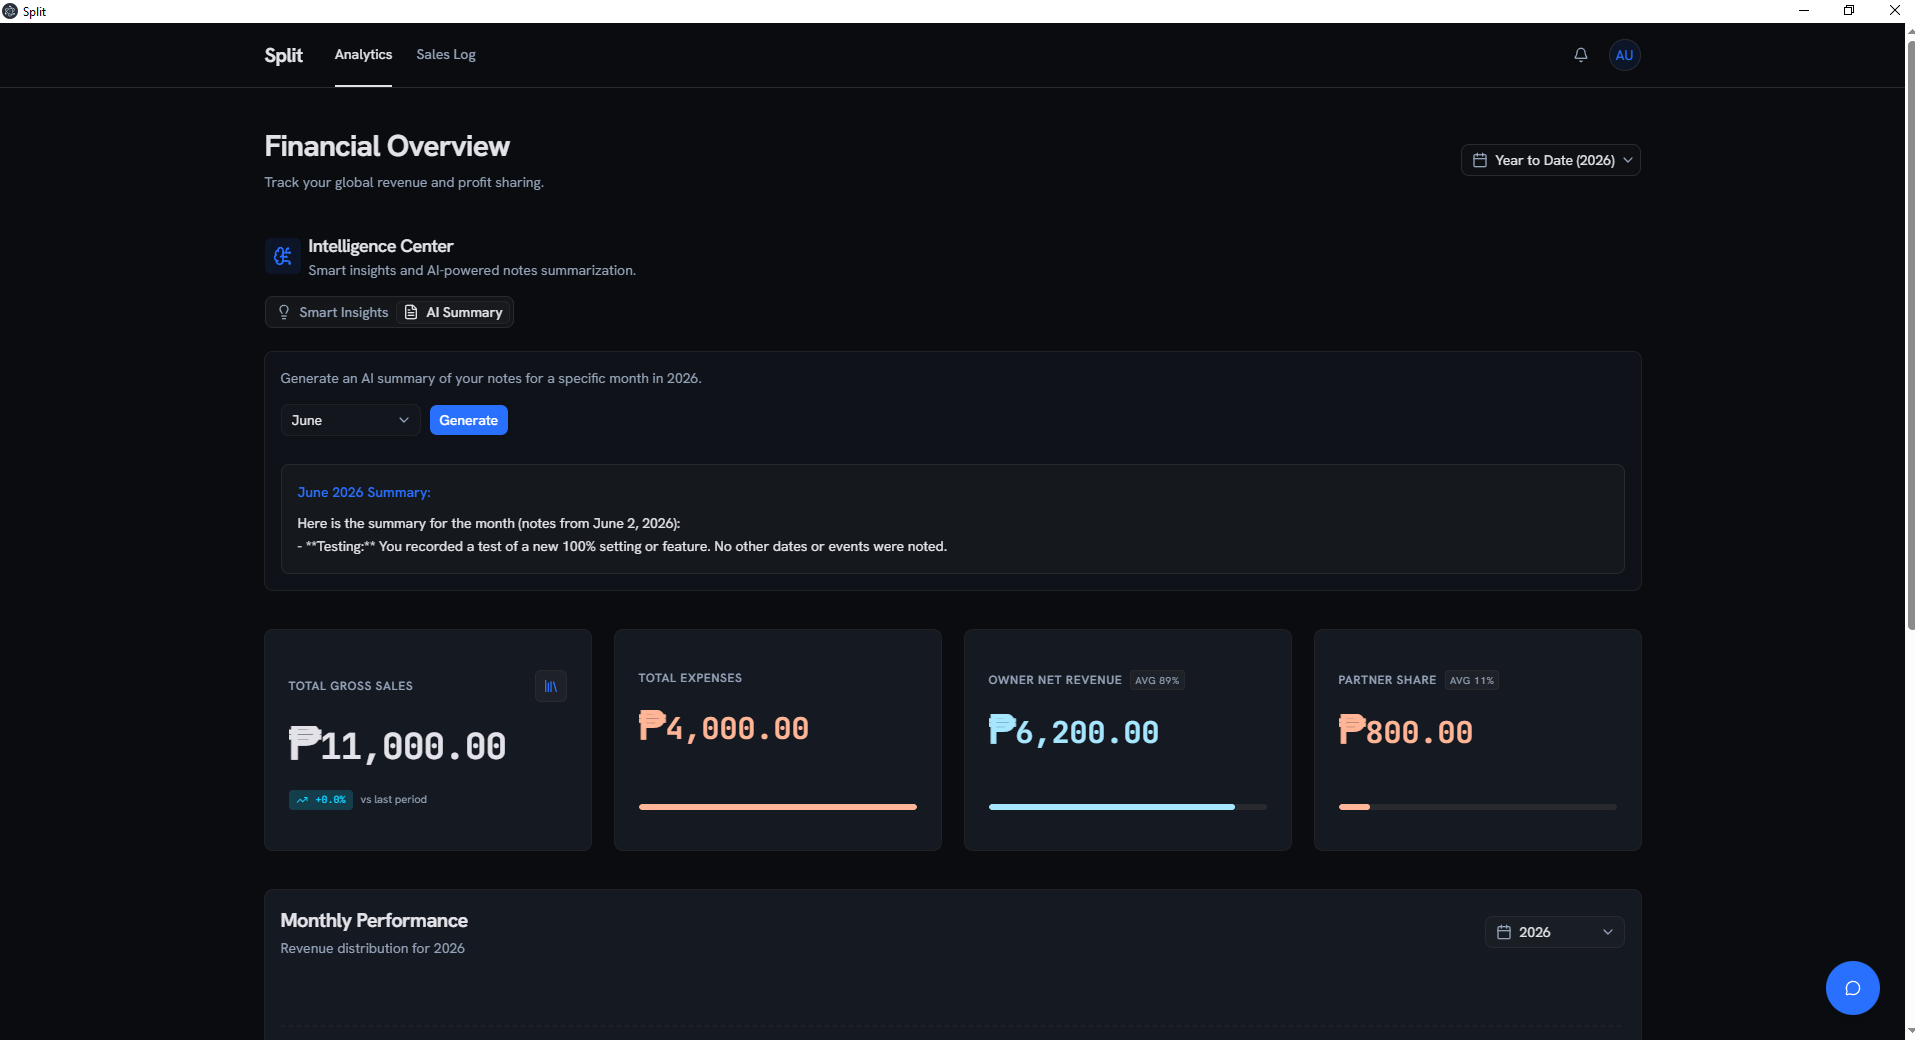
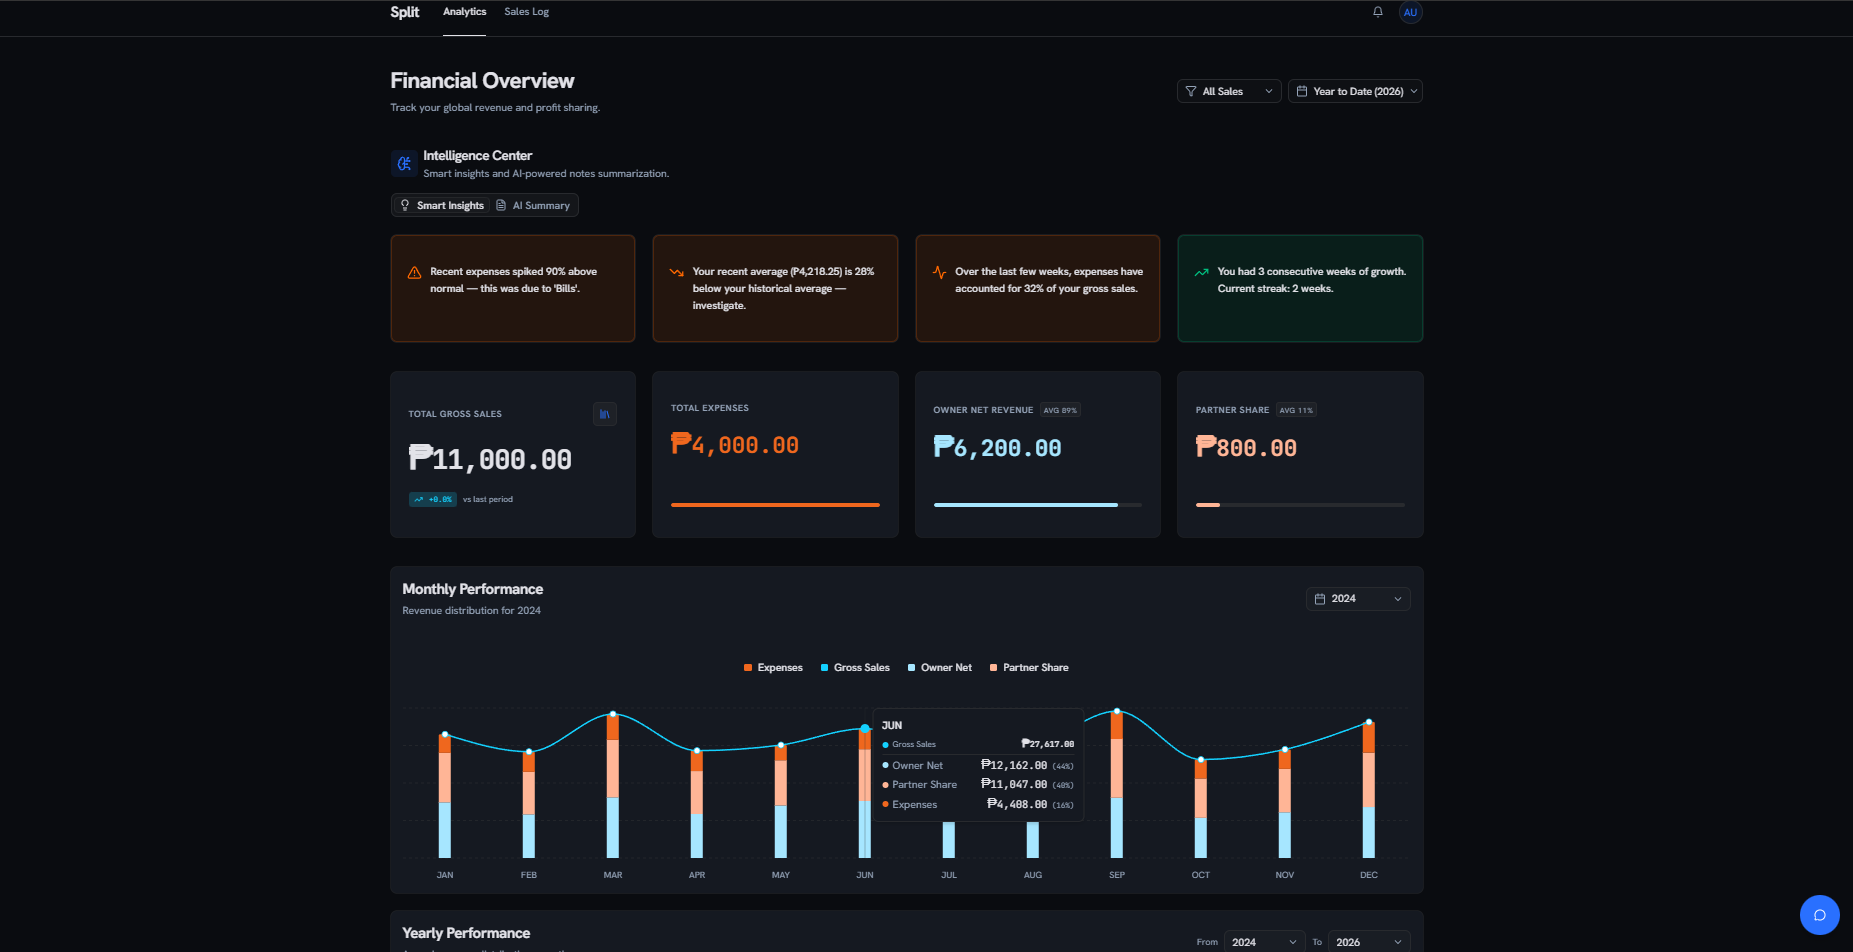
docs: update documentation and screenshot for shipped features (#5)

diff --git a/README.md b/README.md
@@ -18,11 +18,14 @@ Built on Next.js and packaged as a standalone Windows desktop app via Electron, 
 - **Local-First Architecture:** Powered by a local SQLite database using Prisma. No cloud dependencies required.
 - **Desktop Application:** Packaged as a standalone Windows executable (`.exe`) via Electron and `electron-builder`.
 - **Dynamic Revenue Splitting:** Automatic calculation of primary and secondary revenue splits based on configurable percentages.
+- **Solo Mode:** Run the app at 100% split for single-owner operations — the UI automatically adapts by hiding partner share fields.
 - **Financial Dashboard:** A beautiful, responsive interface for logging and analyzing weekly gross sales, expenses, and net revenue with automatic charting.
+- **Dashboard Filters:** Filter your analytics by sale type (All, Solo, Split) for focused analysis.
 - **AI Entry Agent:** Natural language processing allows you to log sales conversationally (e.g., "sales were 5k, spent 300 on router").
 - **AI Intelligence Center:** Automatically generates monthly summaries of operational notes to spot business trends.
 - **Secure AI Settings:** Plug in your own OpenRouter API key directly in your Profile page. It is stored securely and entirely locally.
 - **Built-in Authentication & Offline Recovery:** Fully localized authentication powered by Auth.js. Secures your account with an offline Recovery Key system instead of relying on external email providers.
+- **Year-by-Year Backup & Restore:** Export and import your financial data as JSON files, organized by year, with user preferences included.
 
 ## Tech Stack
 
@@ -34,6 +37,7 @@ Built on Next.js and packaged as a standalone Windows desktop app via Electron, 
 - **Authentication:** Auth.js (NextAuth.js v5)
 - **AI Integration:** Vercel AI SDK (with customizable OpenRouter models)
 - **Styling:** Tailwind CSS & shadcn/ui
+- **Charts:** Recharts
 
 ## Getting Started (Development)
 
@@ -56,7 +60,7 @@ npx prisma db push
 If you'd like to populate your local database with dummy data (sales records and test accounts) to test the UI:
 
 ```bash
-npm run db:seed
+npx prisma db seed
 ```
 *(Check `prisma/seed.ts` for the default admin credentials)*
 
@@ -74,7 +78,7 @@ Open [http://localhost:3000](http://localhost:3000) in your browser. *(Note: For
 ```bash
 npm run desktop
 ```
-This boots the Next.js production build inside the native Electron shell.
+This launches the Electron dev shell with hot-reload.
 
 ### 5. Packaging for Production
 

diff --git a/context/split-project-overview.md b/context/split-project-overview.md
@@ -15,10 +15,13 @@
 - **Data Entry Form:** A simple input screen to log the date, weekly gross sales, expenses, and operational notes.
 - **AI Entry Agent:** Natural language processing that allows users to type "Sales this week were 5000, spent 300 on router repair" and automatically formats it into the database.
 - **Automated Split & Net Calculator:** Auto-calculates primary and secondary shares based on user-defined dynamic percentages. Expenses are deducted from the primary share to output the final net revenue.
+- **Solo Mode:** 100% split option that seamlessly adapts the entire UI for single-owner operations.
 - **Analytics Dashboard:** Monthly and yearly bar charts.
+- **Dashboard Type Filter:** Filter analytics by All, Solo, or Split sales records.
 - **AI Summaries:** Generates intelligent monthly summaries of operational notes to spot trends.
 - **Local AI Settings:** Users can provide their own OpenRouter API key and preferred model name, stored securely in the local SQLite database.
 - **Offline Account Recovery:** Offline recovery key system replacing traditional email-based password resets for maximum privacy.
+- **Year-by-Year Backup & Restore:** Export and import financial records safely by year, including user preferences.
 
 ## 4. DATA (Database & Prisma Schema)
 The architecture is entirely local-first, utilizing a local SQLite database file (`dev.db`).
@@ -87,6 +90,7 @@ Built entirely for privacy and speed on the user's local machine.
 - **Database:** Local SQLite (`@prisma/adapter-better-sqlite3`).
 - **Desktop Packaging:** Electron with `electron-builder`, utilizing `asar` packaging and automated GitHub Actions for Windows `.exe` releases.
 - **AI Integration:** Vercel AI SDK mapped to OpenRouter (DeepSeek/Gemini/Llama).
+- **Charts:** Recharts.
 - **Authentication & Security:** Auth.js (NextAuth v5) & Bcrypt (12) for secure local logins. Password reset flows run entirely locally via Recovery Keys (Resend was removed).
 
 ## 6. UI/UX

diff --git a/context/current-feature.md b/context/current-feature.md
@@ -11,7 +11,9 @@ Not Started
 
 ## References
 
+
 ## History
+- **2026-06-20: Docs and Screenshot Refresh**: Updated documentation files (README, CONTEXT, split-project-overview) to reflect shipped features (Solo Mode, Backup/Restore, Dashboard Filters, Recharts) and replaced dashboard screenshots with the latest UI.
 - **2026-06-20: Deepen Sales Log**: Refactored the Weekly Sale domain into a cohesive `SalesLog` module. Absorbed and deleted shallow `analytics.ts` and `insights.ts` modules. Consolidated all array-iteration logic and tests into a single, unified interface for the dashboard and AI agent.
 - **2026-06-19: Marketing Site**: Created a static, offline-capable marketing landing page deployed via Cloudflare Pages. Included custom SEO configuration, semantic HTML5, smooth scrolling, and app screenshots.
 - **2026-06-19: Application Icon Update**: Extracted and configured a new pie chart application icon for both Next.js App Router and the native Electron Builder packager, ensuring the icon reflects in taskbars, shortcuts, and installer files.

diff --git a/CONTRIBUTING.md b/CONTRIBUTING.md
@@ -23,7 +23,7 @@ First off, thank you for considering contributing to Split! We welcome contribut
    ```
 4. **Seed the Database (Optional)**:
    ```bash
-   npm run db:seed
+   npx prisma db seed
    ```
 5. **Run the Next.js Dev Server**:
    ```bash
